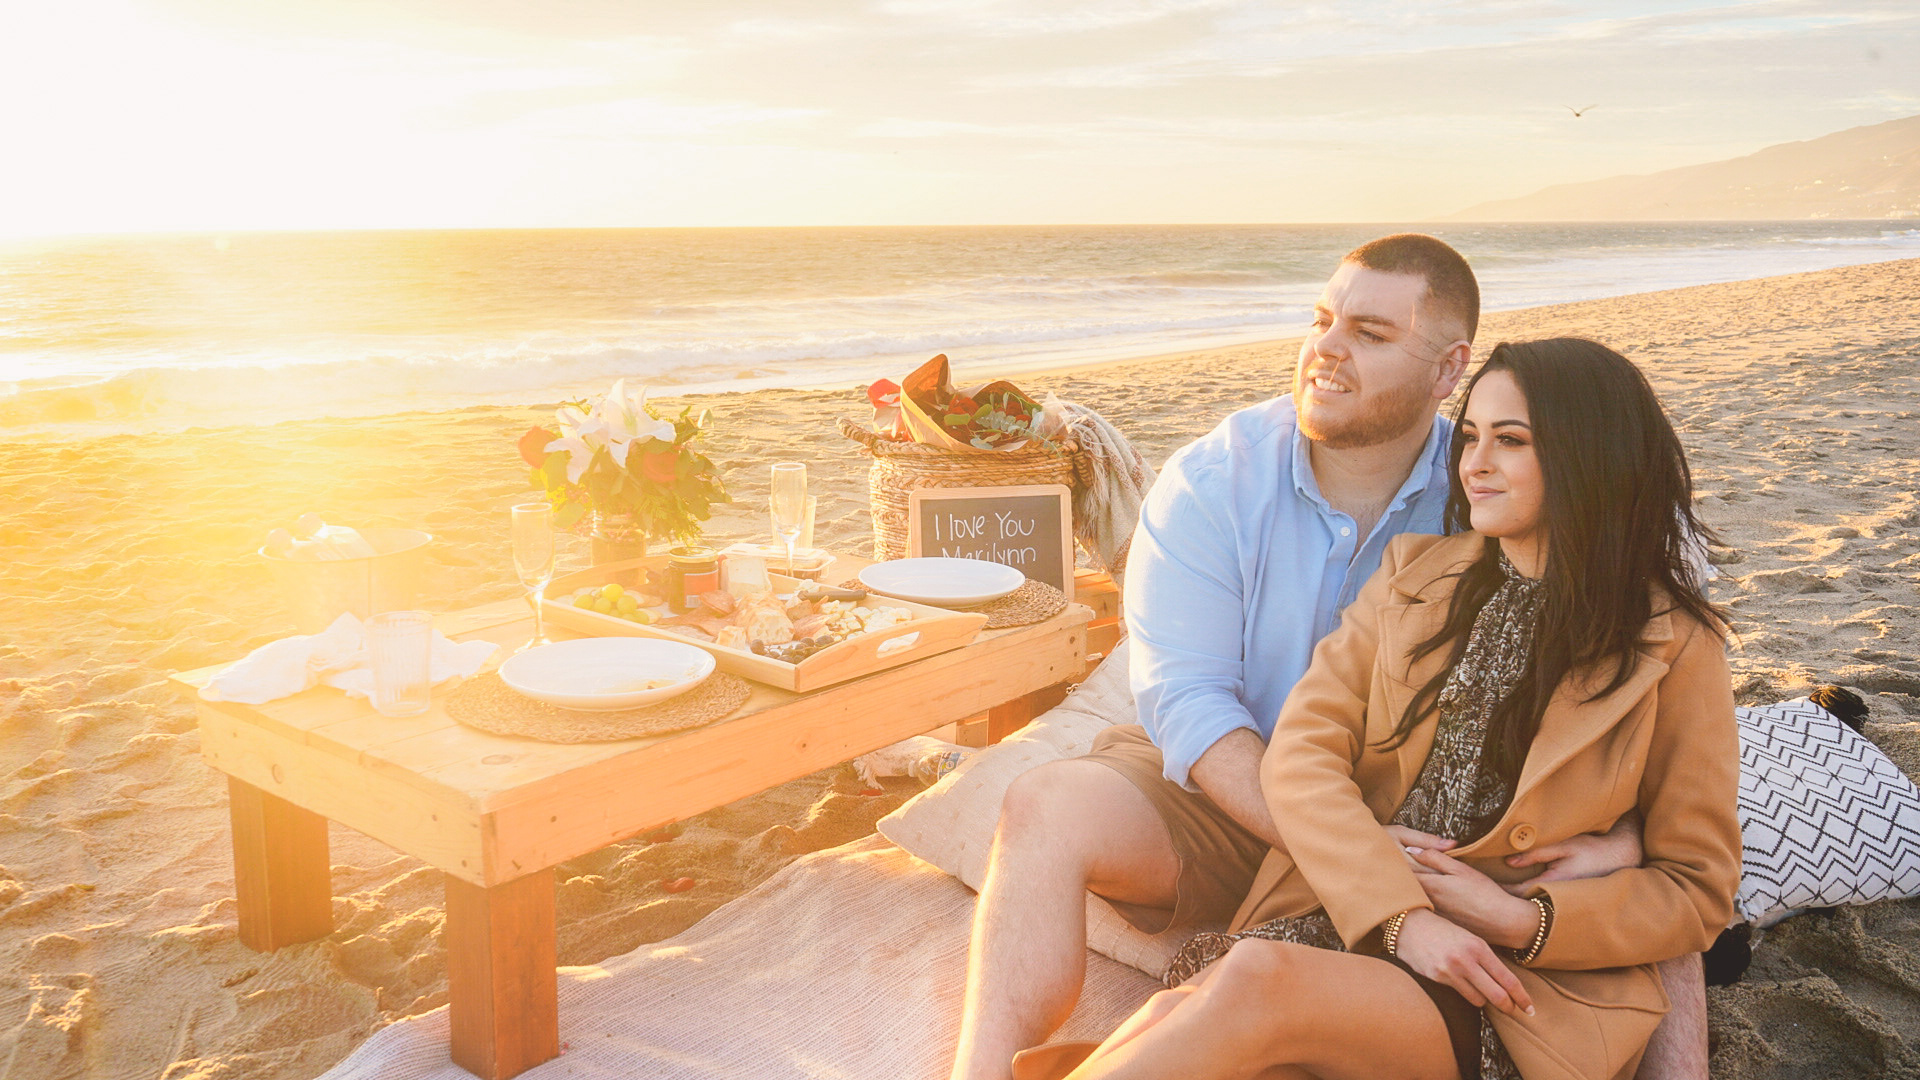
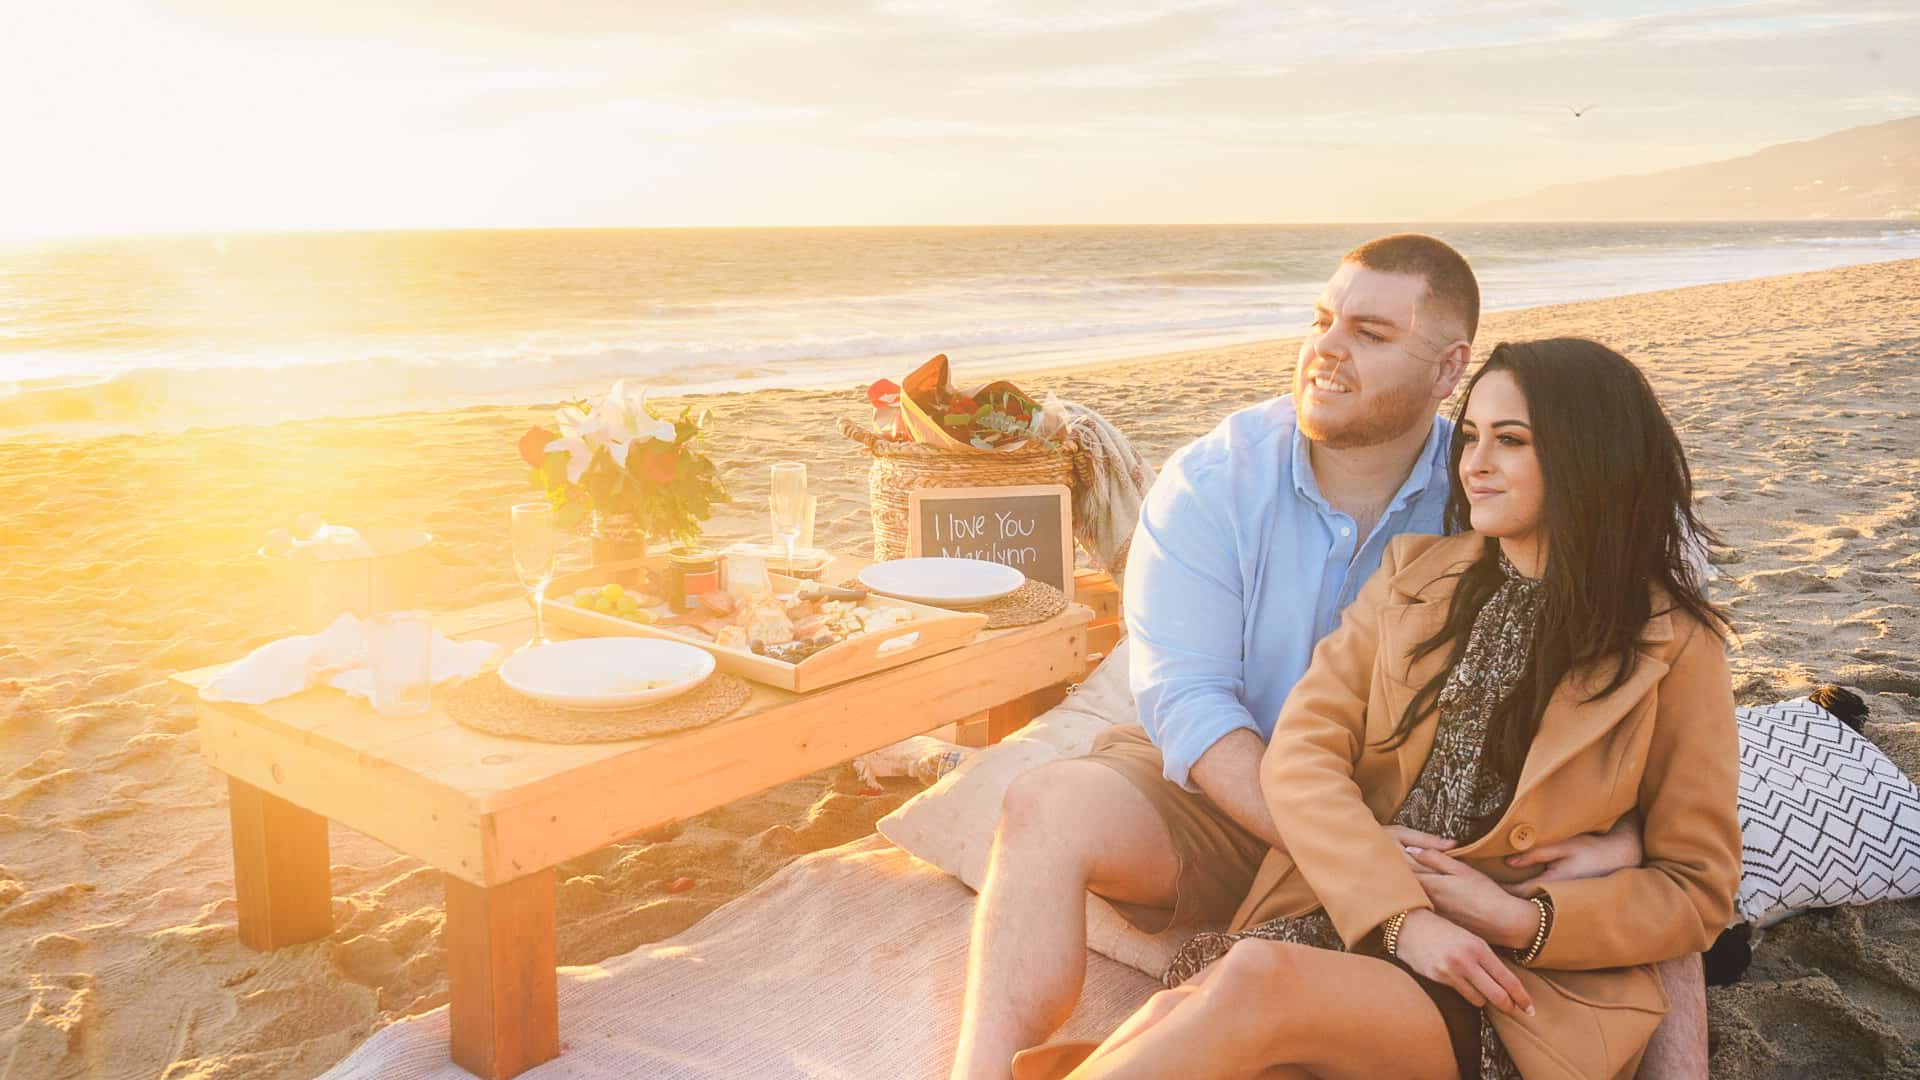
Optimized images. Changed the diamond dividers because they were appearing red on iOS.

diff --git a/food-menu.html b/food-menu.html
@@ -61,7 +61,7 @@
 					<div class="row">
 						<div class="col-md-6 col-lg-4 d-flex align-items-stretch">
 							<div class="card wow animate__animated animate__fadeInDown animate__faster">
-								<img src="./images/food/appetizer.JPG" class="card-img-top" alt="appetizer">
+								<img src="./images/food/appetizer_optimized.jpg" class="card-img-top" alt="appetizer">
 								<div class="card-body">
 									<h5 class="card-title menuAppetizerTitle">Appetizer</h5>
 									<p class="card-text menuAppetizerBody">Pasta filo relleno de queso de cabra con ceniza a la albahaca, con culis de jitomate al tomillo</p>
@@ -71,7 +71,7 @@
 
 						<div class="col-md-6 col-lg-4 d-flex align-items-stretch">
 							<div class="card wow animate__animated animate__fadeInDown animate__fast" data-wow-offset="300">
-								<img src="./images/food/entree.jpg" class="card-img-top" alt="entree">
+								<img src="./images/food/entree_optimized.jpg" class="card-img-top" alt="entree">
 								<div class="card-body">
 									<h5 class="card-title menuEntreeTitle">Entree</h5>
 									<p class="card-text menuEntreeBody">Filet mignon wrapped in bacon, with a blend of pomegranate sauce and marsala wine poured on top. Served with mashed sweet potatoes
@@ -83,7 +83,7 @@
 
 						<div class="col-md-6 col-lg-4 d-flex align-items-stretch">
 							<div class="card wow animate__animated animate__fadeInDown animate__delay-0.5s" data-wow-offset="300">
-								<img src="./images/food/dessert.JPG" class="card-img-top" alt="dessert">
+								<img src="./images/food/dessert_optimized.jpg" class="card-img-top" alt="dessert">
 								<div class="card-body">
 									<h5 class="card-title menuDessertTitle">Dessert</h5>
 									<p class="card-text menuDessertBody">Red fruit tartlet & walnut blondie with ice cream on top (walnut blondie is not pictured)</p>
@@ -101,9 +101,9 @@
 
 						</div>
 						<div class="col-lg-2 diamond-divider-one wow animate__animated animate__fadeInDown" data-wow-offset="300">
-							<span>♦</span>
-							<span>♦</span>
-							<span>♦</span>
+							<span>&#x25C6</span>
+							<span>&#x25C6</span>
+							<span>&#x25C6</span>
 						</div>
 
 					<!-- Wedding Cake -->
@@ -119,9 +119,9 @@
 
 					<div class="row divider-two-row wow animate__animated animate__fadeInDown" data-wow-offset="300">
 						<div class="col-lg-12 diamond-divider-two">
-							<span>♦</span>
-							<span>♦</span>
-							<span>♦</span>
+							<span>&#x25C6</span>
+							<span>&#x25C6</span>
+							<span>&#x25C6</span>
 						</div>
 					</div>
 
